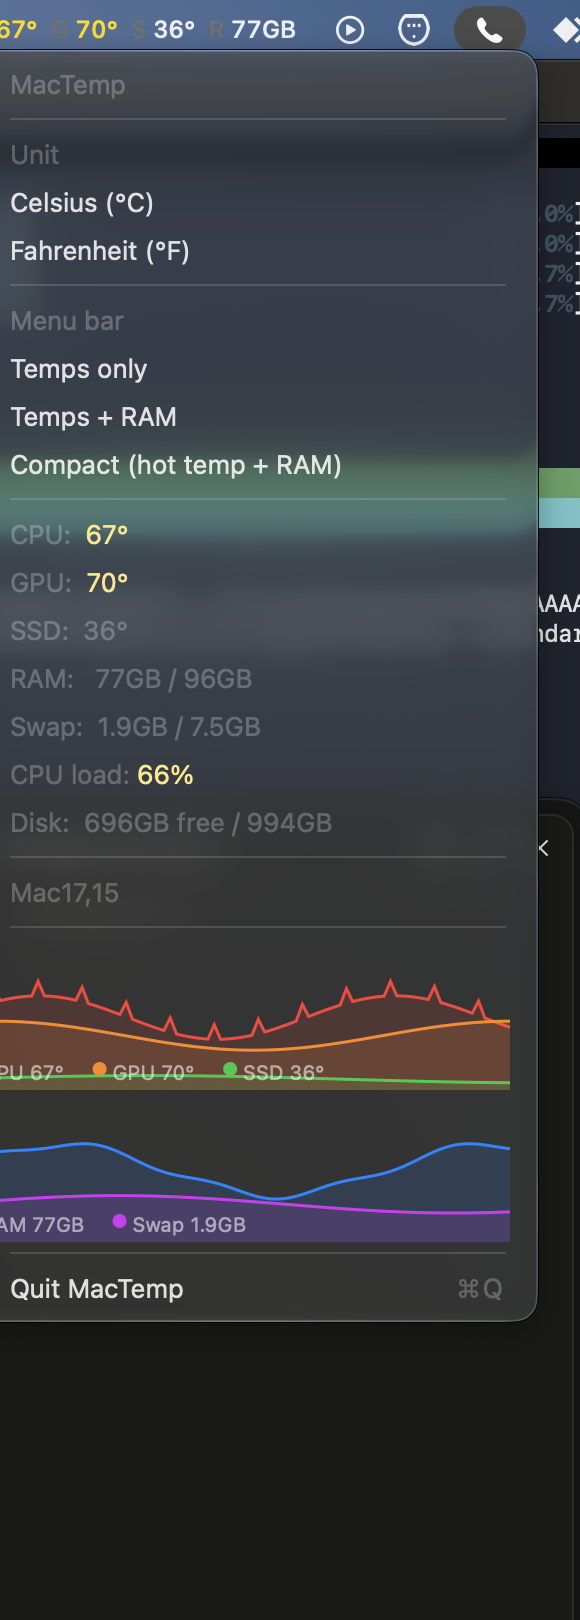
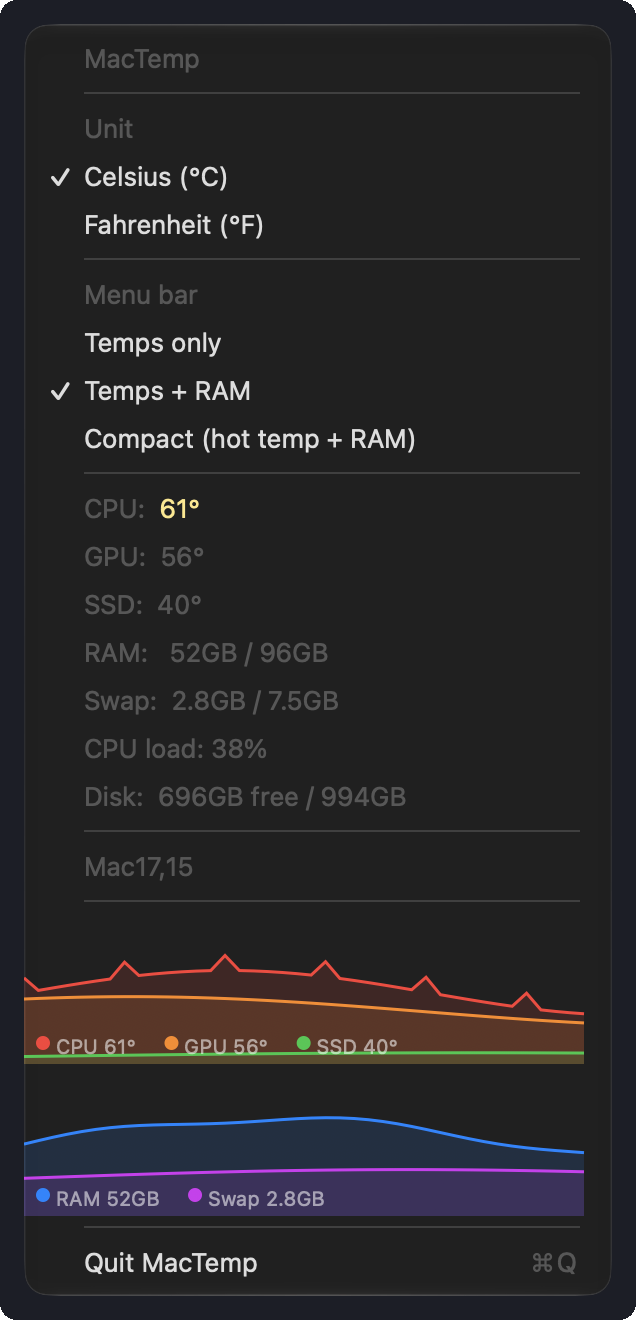
README screenshots: capture app windows only (screencapture -l), no desktop behind
- selftest mode now enumerates on-screen windows and captures only MacTemp's
  own windows: the open menu (-o keeps alpha) plus a full-screen pass for the
  menu-bar strip
- crop_shots.py composites the menu window onto a dark card and crops the bar
  strip tightly around the readout

diff --git a/main.swift b/main.swift
@@ -569,16 +569,64 @@ final class AppDelegate: NSObject, NSApplicationDelegate {
     func openMenuForScreenshot(captureAfter: TimeInterval = 1.2) {
         refresh()
         guard let button = statusItem.button, let menu = statusItem.menu else { return }
+        // The status item lives in its own window — grab its id before the menu opens.
+        var statusWinID = 0
+        if let w = button.window { statusWinID = w.windowNumber }
+        if let w = button.window, let scr = w.screen {
+            let f = button.convertToScreen(button.frame)
+            let g = scr.convertToBaseDisplayPoint(f.origin)
+            let scale = scr.backingScaleFactor
+            let px = scr.convertPoint(toView: NSPoint(x: g.x, y: scr.frame.height - g.y))
+            print("BARPOS x=\(f.origin.x) ytop=\(f.origin.y) w=\(f.width) h=\(f.height) scale=\(scale) px_x=\(px.x) px_ytop=\(scr.frame.height - f.origin.y - f.height) screen=\(scr.frame)")
+        }
         let capture = Timer(timeInterval: captureAfter, repeats: false) { _ in
-            for i in 0..<NSScreen.screens.count {
-                let path = FileManager.default.currentDirectoryPath + "/screenshot_\(i).png"
+            // full-screen pass FIRST, while the menu is still open
+            let full = FileManager.default.currentDirectoryPath + "/win_full.png"
+            let pf = Process()
+            pf.executableURL = URL(fileURLWithPath: "/usr/sbin/screencapture")
+            pf.arguments = ["-x", full]
+            try? pf.run()
+            pf.waitUntilExit()
+            if pf.terminationStatus == 0 { print("saved \(full)") }
+            // Enumerate on-screen windows: capture only OUR app's windows
+            // (status item + open menu) — nothing behind them.
+            let opts: CGWindowListOption = [.optionOnScreenOnly, .excludeDesktopElements]
+            let info = (CGWindowListCopyWindowInfo(opts, kCGNullWindowID) as? [[String: Any]]) ?? []
+            var mine: [(id: Int, name: String, area: CGFloat)] = []
+            for w in info {
+                let owner = w[kCGWindowOwnerName as String] as? String ?? ""
+                let num = w[kCGWindowNumber as String] as? Int ?? 0
+                let layer = w[kCGWindowLayer as String] as? Int ?? -1
+                let name = w[kCGWindowName as String] as? String ?? ""
+                var area: CGFloat = 0
+                var boundsDesc = ""
+                if let bounds = w[kCGWindowBounds as String] as? [String: Any],
+                   let ww = bounds["Width"] as? CGFloat, let hh = bounds["Height"] as? CGFloat {
+                    area = ww * hh
+                    boundsDesc = "x=\(bounds["X"] ?? 0) y=\(bounds["Y"] ?? 0) w=\(ww) h=\(hh)"
+                }
+                print("owner=\(owner) id=\(num) layer=\(layer) name=\(name) area=\(area) \(boundsDesc)")
+                guard owner == "MacTemp" else { continue }
+                if area > 100 { mine.append((num, name, area)) }
+            }
+            for w in mine {
+                let tag = (w.id == statusWinID) ? "bar" : "menu"
+                let path = FileManager.default.currentDirectoryPath + "/win_\(tag).png"
                 let p = Process()
                 p.executableURL = URL(fileURLWithPath: "/usr/sbin/screencapture")
-                p.arguments = ["-x", path]
+                p.arguments = ["-x", "-o", "-l", String(w.id), path]
                 try? p.run()
                 p.waitUntilExit()
                 if p.terminationStatus == 0 { print("saved \(path)") }
             }
+            // full-screen pass for cropping the menu-bar strip (status text lives in Window Server's bar)
+            let full = FileManager.default.currentDirectoryPath + "/win_full.png"
+            let p = Process()
+            p.executableURL = URL(fileURLWithPath: "/usr/sbin/screencapture")
+            p.arguments = ["-x", full]
+            try? p.run()
+            p.waitUntilExit()
+            if p.terminationStatus == 0 { print("saved \(full)") }
             exit(0)   // screencapture done; popUp blocks until we leave
         }
         RunLoop.main.add(capture, forMode: .common)
@@ -740,7 +788,7 @@ if ProcessInfo.processInfo.environment["MAC_TEMP_SELFTEST"] != nil {
     app.setActivationPolicy(.accessory)
     let delegate = AppDelegate()
     app.delegate = delegate
-    if demo { delegate.demoSeed = demoHistory(count: 90) }
+    if demo { delegate.demoSeed = demoHistory(count: 40) }
     DispatchQueue.main.asyncAfter(deadline: .now() + (demo ? 0.5 : 4)) {
         delegate.openMenuForScreenshot()
         exit(0)

diff --git a/tools/crop_shots.py b/tools/crop_shots.py
@@ -1,14 +1,21 @@
-from PIL import Image
+from PIL import Image, ImageDraw
 
-im = Image.open("screenshot_1.png")
-w, h = im.size
+# 1) Menu: composite the window-only capture (screencapture -l <menu window>) onto a
+#    solid dark card so nothing shows behind the translucent menu.
+menu = Image.open("win_menu.png").convert("RGBA")
+mw, mh = menu.size
+pad = 24
+W, H = mw + pad * 2, mh + pad * 2
+card = Image.new("RGBA", (W, H), (28, 30, 38, 255))
+card.alpha_composite(menu, (pad, pad))
+mask = Image.new("L", (W, H), 0)
+ImageDraw.Draw(mask).rounded_rectangle([0, 0, W - 1, H - 1], radius=16, fill=255)
+out = Image.composite(card, Image.new("RGBA", (W, H), (0, 0, 0, 0)), mask)
+out.save("assets/mactemp-menu.png")
+print("menu:", out.size)
 
-# Full showcase: open dropdown menu (tight crop, no desktop clutter)
-menu = im.crop((w - 1290, 0, w - 710, 1620))
-menu.save("assets/mactemp-menu.png")
-print("menu", menu.size)
-
-# Menu bar item close-up
-bar = im.crop((w - 1420, 0, w - 830, 56))
+# 2) Menu bar strip: tight crop of only the MacTemp readout (item at global x=1936pt @2x).
+full = Image.open("win_full.png")
+bar = full.crop((3872, 0, 4384, 48))
 bar.save("assets/mactemp-bar.png")
-print("bar", bar.size)
+print("bar:", bar.size)

diff --git a/tools/probe.py b/tools/probe.py
@@ -1,0 +1,11 @@
+from PIL import Image
+
+full = Image.open("win_full.png")
+fw, fh = full.size
+print("full:", full.size)
+# secondary screen starts at global x=2560pt -> px 5120. Menu window x=1934pt: which screen?
+# dump candidate strips to find the MacTemp readout
+for i, (x0, x1) in enumerate([(3300, 3900), (3860, 4500), (4400, 5120), (0, 800), (560, 1200)]):
+    strip = full.crop((x0, 0, x1, 60))
+    strip.save(f"probe_strip_{i}.png")
+    print(i, (x0, x1))
